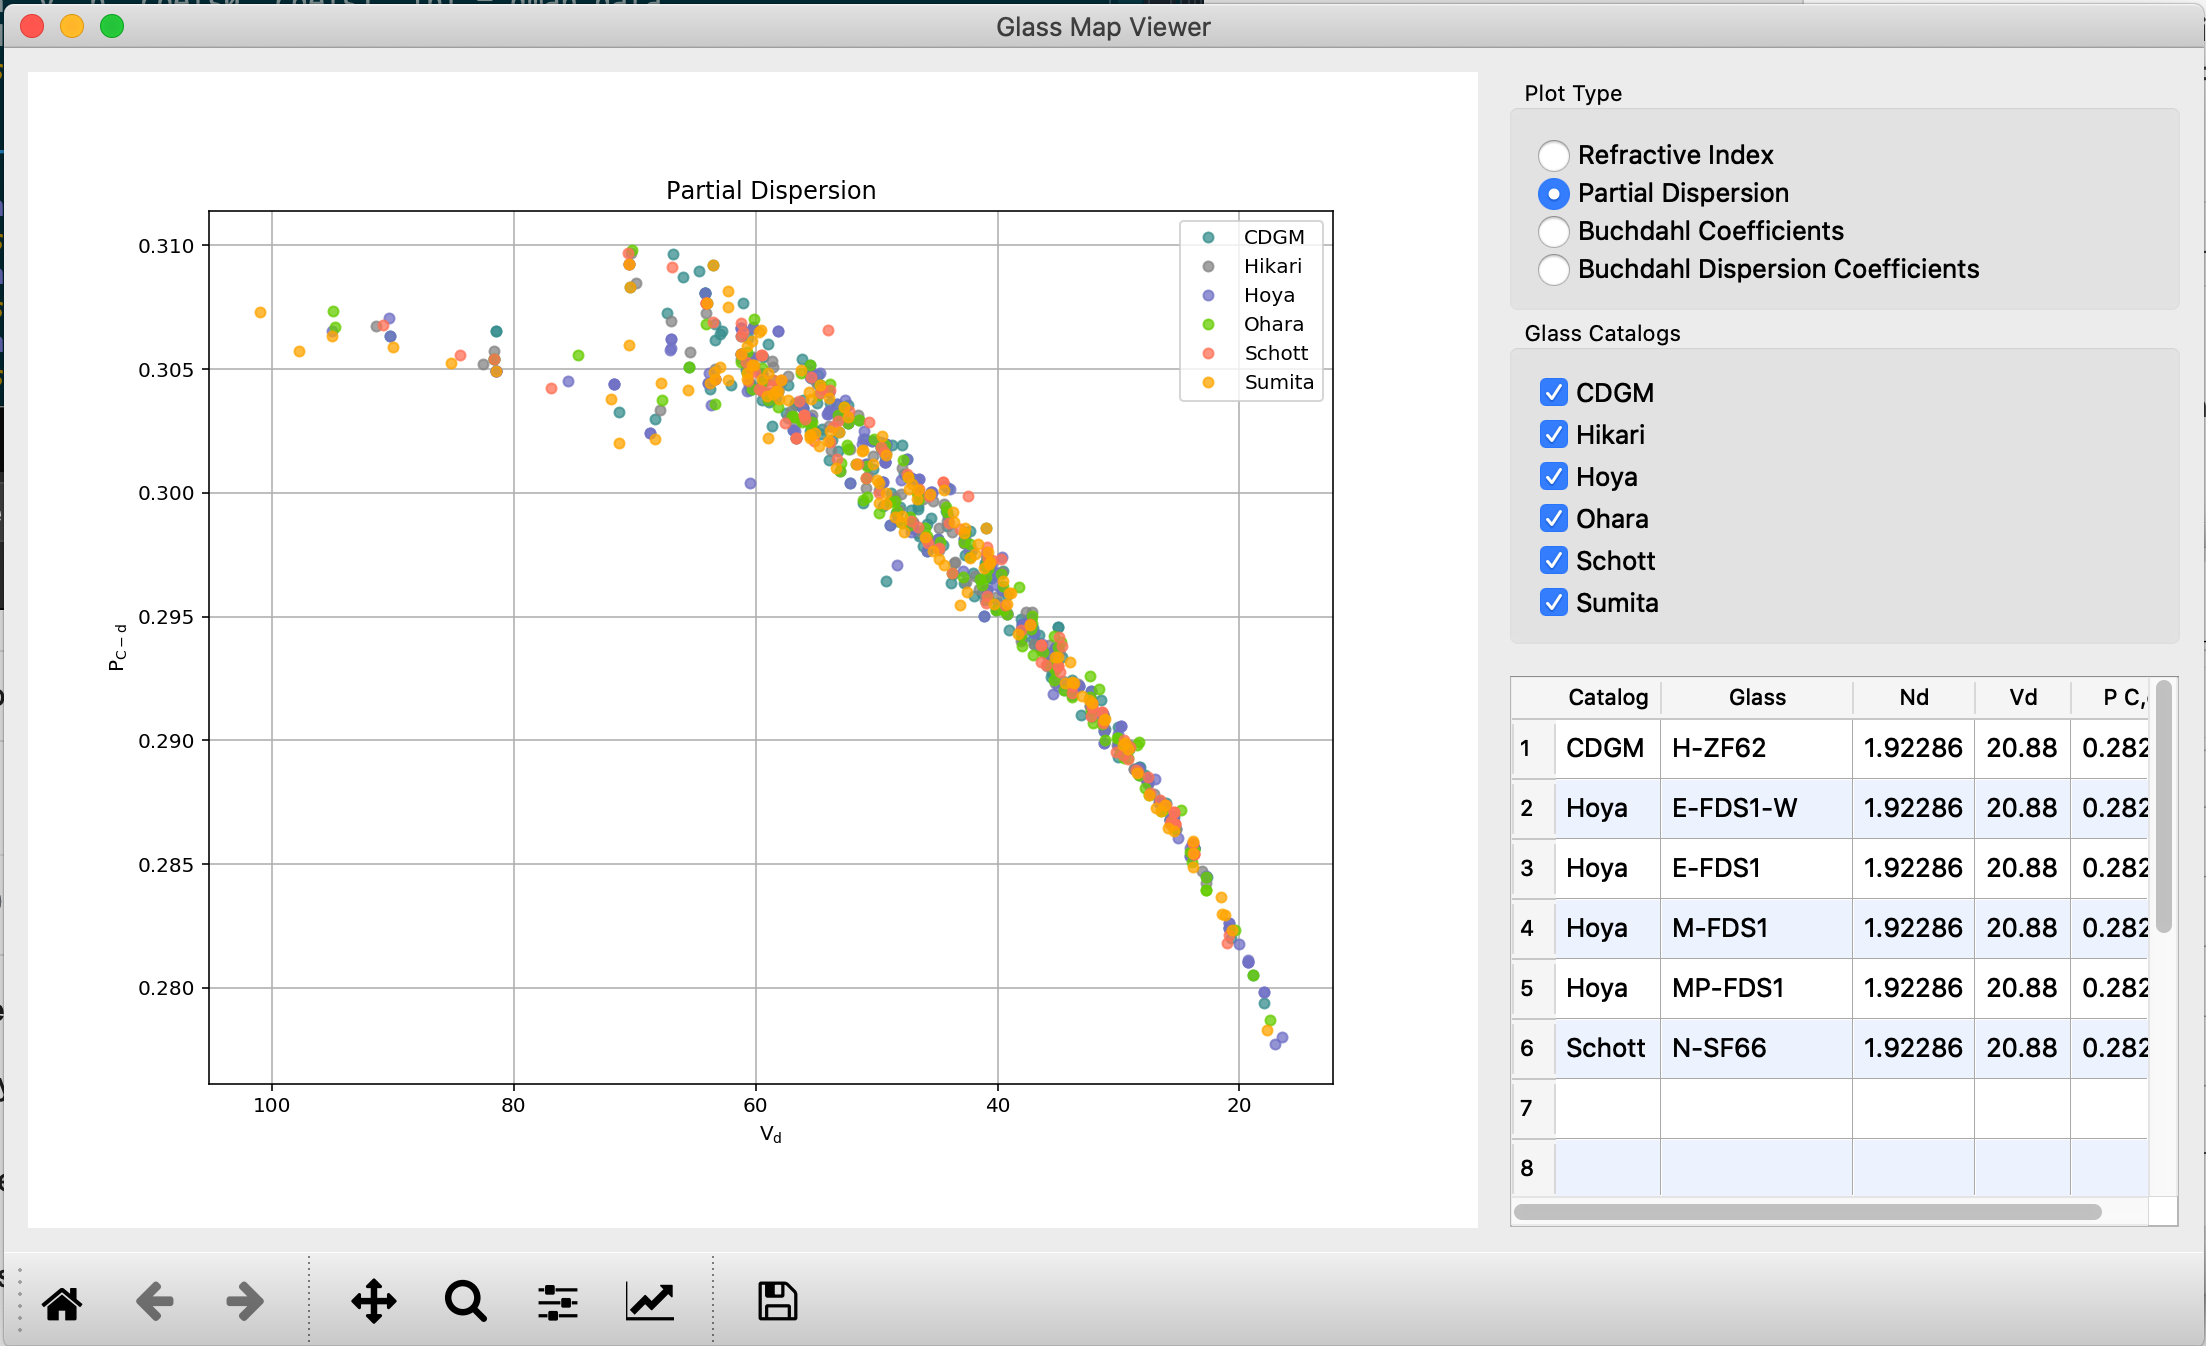
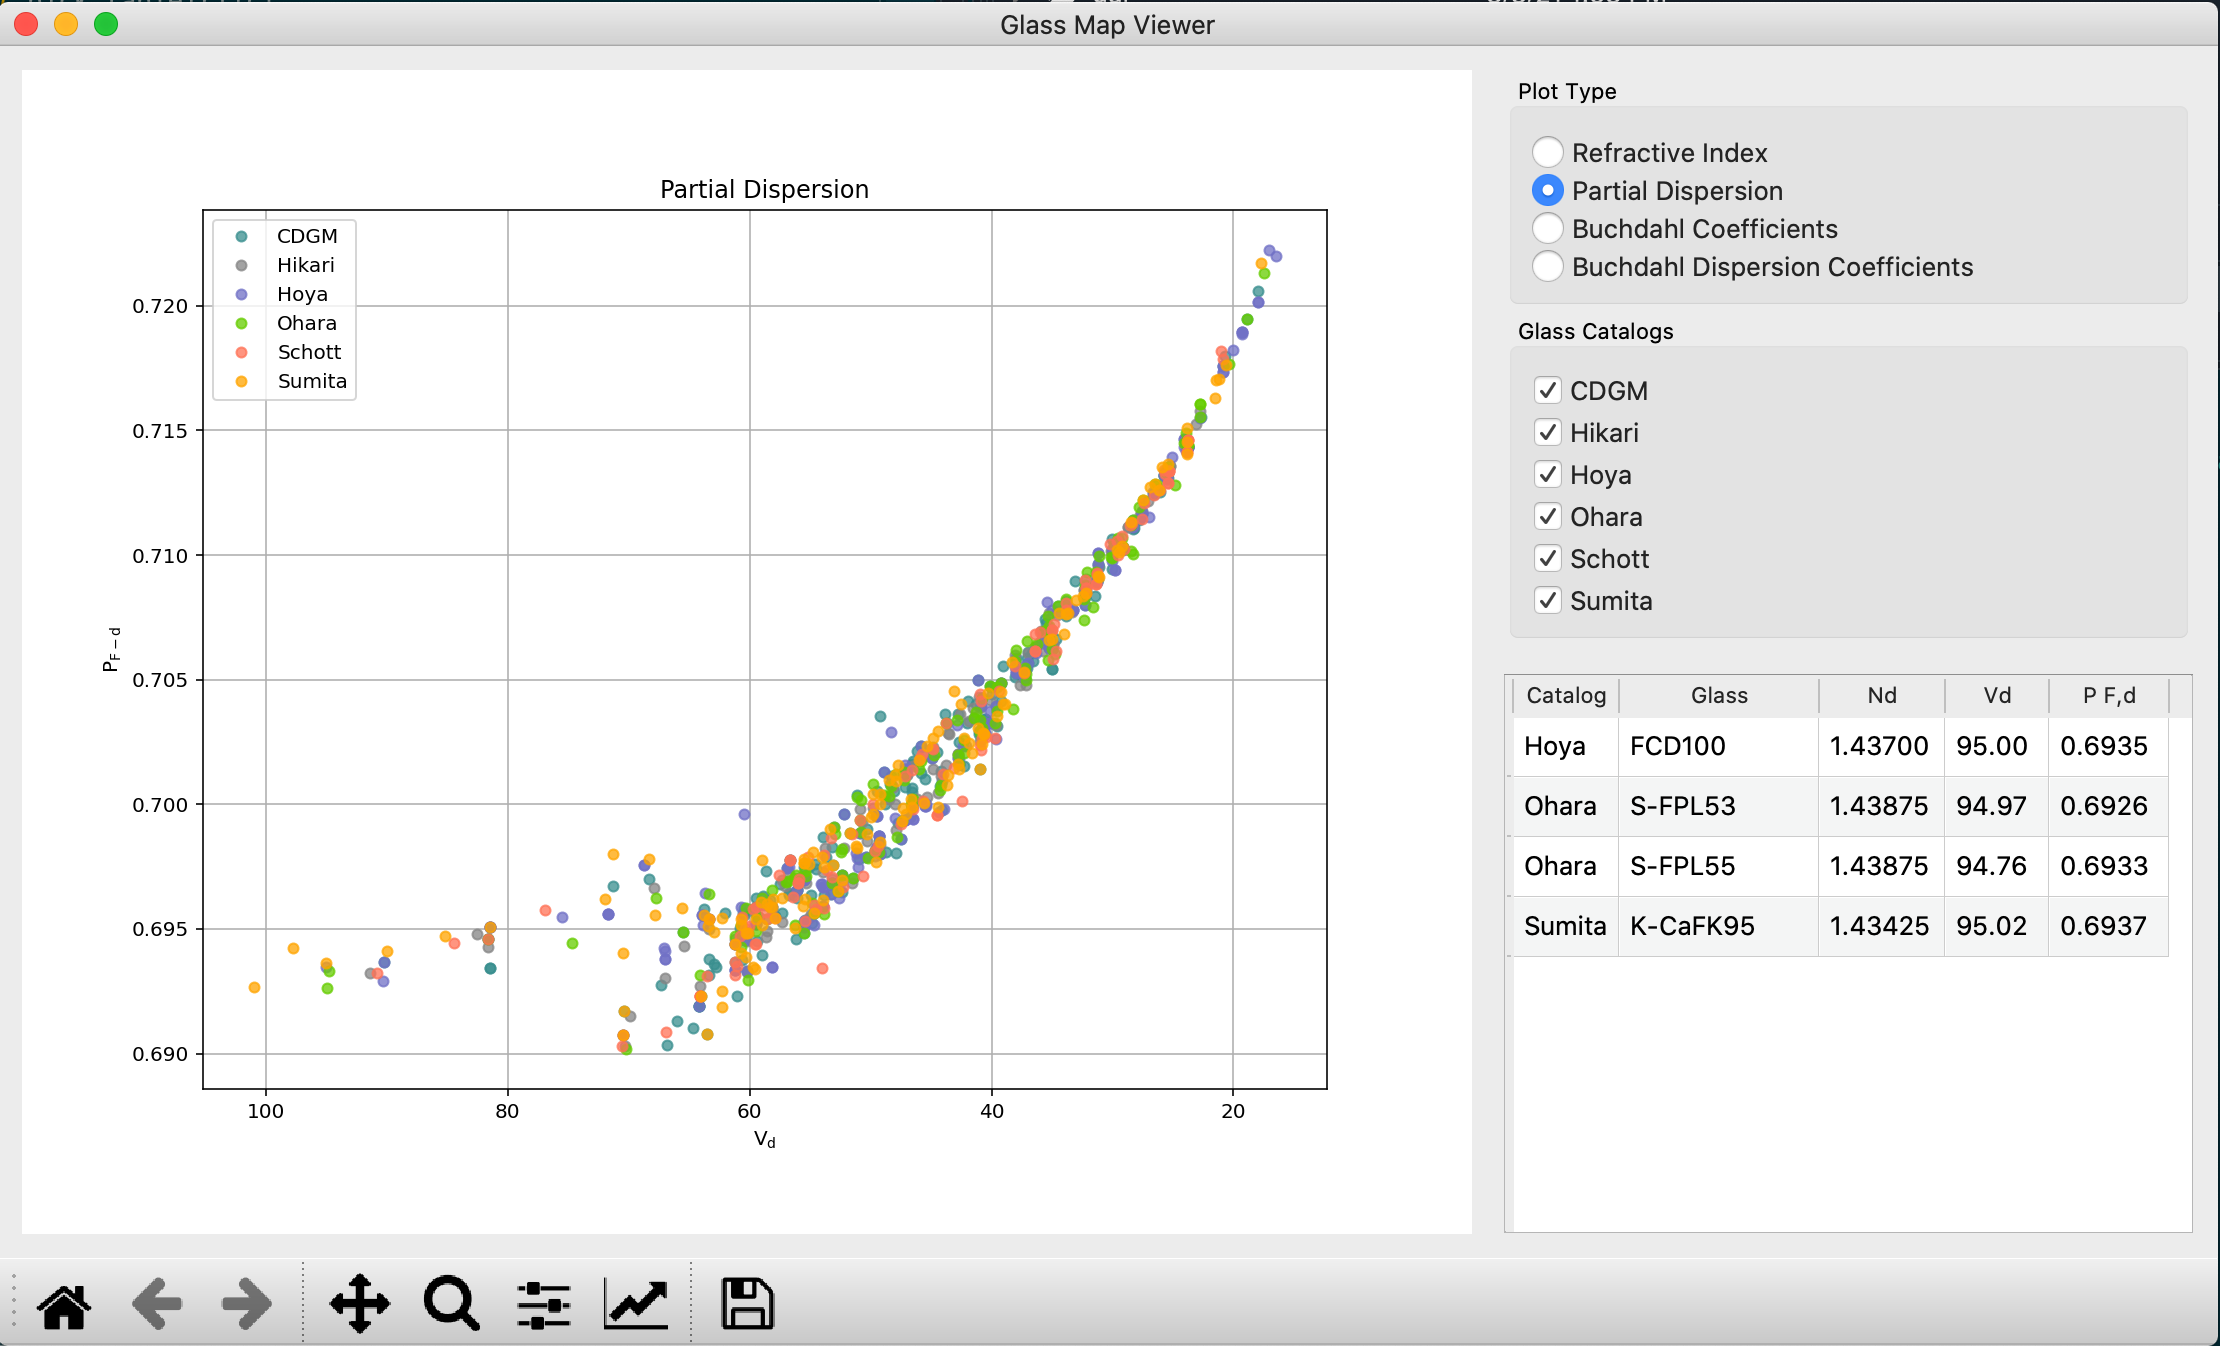
doc updates

diff --git a/test/cmd_line_example.py b/test/cmd_line_example.py
@@ -52,8 +52,8 @@ nC, nd, nF
 # In[8]:
 
 
-vd, PCd = og.glass.calc_glass_constants(nd, nF, nC)
-nd, vd, PCd
+vd, PFd = og.glass.calc_glass_constants(nd, nF, nC)
+nd, vd, PFd
 
 
 # In[9]:
@@ -61,8 +61,8 @@ nd, vd, PCd
 
 dFC = nF-nC
 vd = (nd - 1.0)/dFC
-PCd = (nd-nC)/dFC
-nd, vd, PCd
+PFd = (nF-nd)/dFC
+nd, vd, PFd
 
 
 # In[10]:

diff --git a/docs/OG_Quickstart/OG_Quickstart.rst b/docs/OG_Quickstart/OG_Quickstart.rst
@@ -76,15 +76,15 @@ Use the :func:`~.glass.calc_glass_constants` function to calculate the optical c
 
 .. code:: ipython3
 
-    vd, PCd = og.glass.calc_glass_constants(nd, nF, nC)
-    nd, vd, PCd
+    vd, PFd = og.glass.calc_glass_constants(nd, nF, nC)
+    nd, vd, PFd
 
 
 
 
 .. parsed-literal::
 
-    (1.5168000345005885, 64.1673362374998, 0.30763657034898056)
+    (1.5168000345005885, 64.1673362374998, 0.6923634296510195)
 
 
 
@@ -92,15 +92,15 @@ Use the :func:`~.glass.calc_glass_constants` function to calculate the optical c
 
     dFC = nF-nC
     vd = (nd - 1.0)/dFC
-    PCd = (nd-nC)/dFC
-    nd, vd, PCd
+    PFd = (nF-nd)/dFC
+    nd, vd, PFd
 
 
 
 
 .. parsed-literal::
 
-    (1.5168000345005885, 64.1673362374998, 0.30763657034898056)
+    (1.5168000345005885, 64.1673362374998, 0.6923634296510195)
 
 
 
